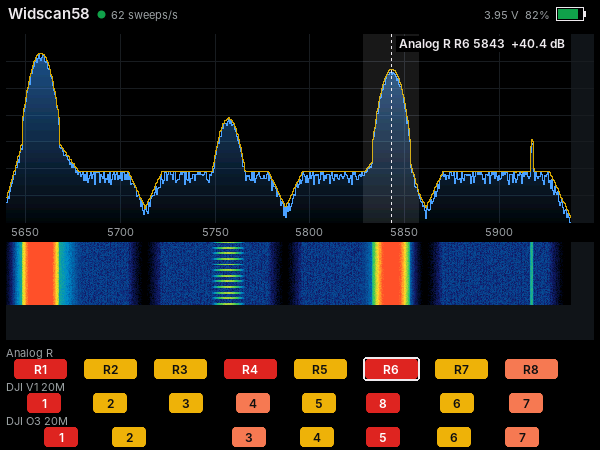
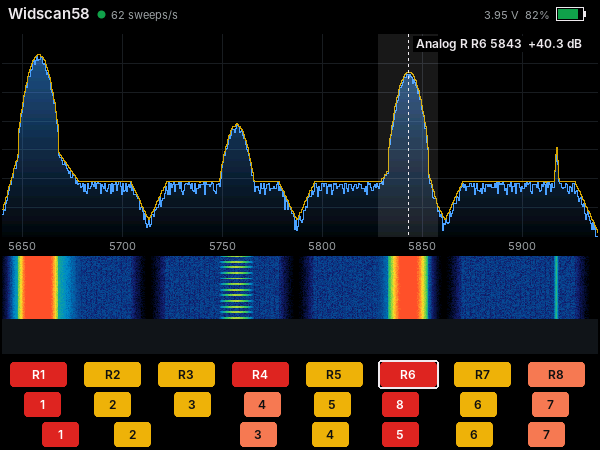
handheld: rows menu on a long press, no row names, axis fits the scan
- Channel rows lose their names; a long press on them opens a menu to
  pick the 3 platforms (in the list's order; Done once 3 are picked).
  Tapping a row no longer cycles its platform.
- The frequency axis spans what the scanner's segments cover (within
  5640-5950 MHz), so the right edge isn't an empty unscanned strip; the
  plot uses the full width (LX 2, PW 596).
- Rows are 30 px; the 14 px saved go to the spectrum.
- The charging screen dims after 5 s instead of a minute.

Claude-Session: https://claude.ai/code/session_01RN8zrzY3kaDCnW1Za2v2Wa

Changed region(s): [[0.0, 0.0622, 0.99, 0.7156], [0.0, 0.7778, 0.99, 0.9956], [0.99, 0.4978, 1.0, 0.5289]]

diff --git a/handheld/src/ui.cpp b/handheld/src/ui.cpp
@@ -6,21 +6,21 @@
 #include "platforms.h"
 
 // Band shown: E4 to E8, the analog chart's edges.
-static const float F0 = 5640, F1 = 5950;
+static const float BAND0 = 5640, BAND1 = 5950;  // the axis at most; it shrinks to what the scanner covers
 
 // Layout (see the mockup in README.md).
 static const int STATUS_H = 28;
-static const int SPEC_T = 34, SPEC_B = 222;  // spectrum plot rows
-static const int AXIS_Y = 236;              // MHz labels' baseline
-static const int WF_T = 242;                // waterfall top (Ui::WF_ROWS tall)
-static const int ROWS_T = 346, ROW_H = 34;  // channel rows: a caption, then the boxes
-static const int CAP_H = 13, BOX_H = 20;
+static const int SPEC_T = 34, SPEC_B = 236;  // spectrum plot rows
+static const int AXIS_Y = 250;              // MHz labels' baseline
+static const int WF_T = 256;                // waterfall top (Ui::WF_ROWS tall)
+static const int ROWS_T = 360, ROW_H = 30;  // channel rows
+static const int BOX_H = 25;
 
 RegionRows regionRows(Region r) {
     switch (r) {
         case R_STATUS: return {0, STATUS_H};
-        case R_PLOT: return {STATUS_H, 344};
-        default: return {344, Ui::H};
+        case R_PLOT: return {STATUS_H, 358};
+        default: return {358, Ui::H};
     }
 }
 
@@ -45,7 +45,7 @@ static uint16_t levelColor(float db) {
     return CRITICAL;
 }
 
-float Ui::fx(float mhz) const { return LX + (mhz - F0) / (F1 - F0) * PW; }
+float Ui::fx(float mhz) const { return LX + (mhz - f0) / (f1 - f0) * PW; }
 
 static float percentile10(const float *v, int n) {
     static float tmp[Ui::PW];
@@ -66,7 +66,24 @@ static float percentile10(const float *v, int n) {
 }
 
 void Ui::update(const Scanner &sc, uint32_t nowMs) {
-    sc.composite(F0, F1, PW, live, maxH, avgLin, nowMs);
+    // The axis spans what the scanner's segments cover (within the band), so
+    // no columns are left empty at the edges.
+    float lo = 1e9f, hi = 0;
+    for (const auto &g : sc.seg) {
+        if (!g.used || (int32_t)(nowMs - g.updatedMs) > (int32_t)Scanner::STALE_MS) continue;
+        float start = g.loKhz / 1000.0f + g.startOffHz / 1e6f, bin = g.binHz / 1e6f;
+        if (start - bin / 2 < lo) lo = start - bin / 2;
+        if (start + (g.n - 0.5f) * bin > hi) hi = start + (g.n - 0.5f) * bin;
+    }
+    if (hi > lo) {
+        float a = floorf(lo < BAND0 ? BAND0 : lo), b = ceilf(hi > BAND1 ? BAND1 : hi);
+        if (b - a > 100 && (fabsf(a - f0) >= 2 || fabsf(b - f1) >= 2)) {
+            f0 = a;
+            f1 = b;
+            memset(wf, WF_EMPTY, sizeof(wf));  // its columns were on the old axis
+        }
+    }
+    sc.composite(f0, f1, PW, live, maxH, avgLin, nowMs);
     rotationHz = sc.rotationHz;
     scanning = sc.running;
     if (sc.drops != lastDrops) {
@@ -95,12 +112,12 @@ void Ui::update(const Scanner &sc, uint32_t nowMs) {
     }
 
     // Channel levels: mean power over the channel from the average trace.
-    const float colMhz = (F1 - F0) / PW;
+    const float colMhz = (f1 - f0) / PW;
     for (int r = 0; r < Settings::ROWS; r++) {
         const Platform &p = PLATFORMS[set.rows[r]];
         for (int j = 0; j < p.count; j++) {
             float lo = p.ch[j].mhz - p.bw / 2.0f, hi = p.ch[j].mhz + p.bw / 2.0f;
-            int a = (int)ceilf((lo - F0) / colMhz - 0.5f), b = (int)floorf((hi - F0) / colMhz - 0.5f);
+            int a = (int)ceilf((lo - f0) / colMhz - 0.5f), b = (int)floorf((hi - f0) / colMhz - 0.5f);
             if (a < 0) a = 0;
             if (b > PW - 1) b = PW - 1;
             float sum = 0;
@@ -244,9 +261,10 @@ void Ui::drawPlot(uint32_t nowMs) {
     }
     for (int f = 5650; f <= 5950; f += 50) {
         int x = (int)lroundf(fx((float)f));
-        if (x < LX + PW) c.vline(x, SPEC_T, SPEC_B - SPEC_T + 1, GRID);
+        if (x < LX || x >= LX + PW) continue;
+        c.vline(x, SPEC_T, SPEC_B - SPEC_T + 1, GRID);
         snprintf(s, sizeof(s), "%d", f);
-        if (x < LX + PW - 10) c.text(font_small, x, AXIS_Y, s, INK2, CENTER);
+        if (x >= LX + 16 && x < LX + PW - 16) c.text(font_small, x, AXIS_Y, s, INK2, CENTER);
     }
 
     // Live trace: a fading fill under a line, then the max hold line.
@@ -275,7 +293,7 @@ void Ui::drawPlot(uint32_t nowMs) {
         const Platform &p = PLATFORMS[set.rows[selRow]];
         const Channel &ch = p.ch[selCh];
         int x = (int)lroundf(fx(ch.mhz));
-        int half = (int)lroundf(p.bw / 2.0f / (F1 - F0) * PW);
+        int half = (int)lroundf(p.bw / 2.0f / (f1 - f0) * PW);
         c.blendFill(x - half, SPEC_T, 2 * half, SPEC_B - SPEC_T + 1, INK, 28);
         c.dashedV(x, SPEC_T, SPEC_B, INK, 3, 3);
         float db = lev[selRow][selCh].db;
@@ -315,7 +333,7 @@ void Ui::drawPlot(uint32_t nowMs) {
 
 void Ui::boxGeometry(int row, int ch, int *x, int *w) const {
     const Platform &p = PLATFORMS[set.rows[row]];
-    float pxPerMhz = (float)PW / (F1 - F0);
+    float pxPerMhz = (float)PW / (f1 - f0);
     // As wide as the channel, but no wider than the gap to its neighbours.
     float width = p.bw * pxPerMhz;
     for (int j = 0; j < p.count; j++)
@@ -335,8 +353,7 @@ void Ui::drawRows() {
     for (int r = 0; r < Settings::ROWS; r++) {
         const Platform &p = PLATFORMS[set.rows[r]];
         int y = ROWS_T + r * ROW_H;
-        c.text(font_small, LX, y + CAP_H - 2, p.label, INK2);
-        int by = y + CAP_H;
+        int by = y + (ROW_H - BOX_H) / 2;
         for (int j = 0; j < p.count; j++) {
             int x, w;
             boxGeometry(r, j, &x, &w);
@@ -369,21 +386,6 @@ int Ui::tap(int x, int y, uint32_t nowMs, bool *settingsChanged, bool *resetHold
     }
     int r = (y - ROWS_T) / ROW_H;
     if (y < ROWS_T || r >= Settings::ROWS) return 0;
-    if (y - ROWS_T - r * ROW_H < CAP_H + 1) {
-        // The caption: the next platform not already on screen.
-        int p = set.rows[r];
-        for (int k = 0; k < PLATFORM_COUNT; k++) {
-            p = (p + 1) % PLATFORM_COUNT;
-            bool shown = false;
-            for (int j = 0; j < Settings::ROWS; j++)
-                if (j != r && set.rows[j] == p) shown = true;
-            if (!shown) break;
-        }
-        set.rows[r] = (uint8_t)p;
-        if (selRow == r) selRow = selCh = -1;
-        *settingsChanged = true;
-        return R_ROWS | R_STATUS | R_PLOT;
-    }
     // The nearest box in the row.
     const Platform &p = PLATFORMS[set.rows[r]];
     int best = -1, bestD = 1 << 30;
@@ -450,4 +452,81 @@ void Ui::drawCharging(uint32_t nowMs, int dx, int dy) {
         c.text(font_label, W / 2 + dx, y + bh + 110, s, INK2, CENTER);
     }
     c.text(font_small, W / 2 + dx, y + bh + 160, "Press power to scan", INK2, CENTER);
+}
+
+// ---- The rows menu (a long press on the channel rows) ----
+
+static const int MENU_TOP = 64, MENU_COLS = 2, MENU_GAP = 8, MENU_BTN_Y = 396, MENU_BTN_H = 44;
+
+void Ui::openMenu() {
+    menuMask = 0;
+    for (int r = 0; r < Settings::ROWS; r++) menuMask |= 1u << set.rows[r];
+    menuOpen = true;
+}
+
+static int popcount(uint32_t m) {
+    int n = 0;
+    for (; m; m &= m - 1) n++;
+    return n;
+}
+
+static void menuCell(int k, int *x, int *y, int *w, int *h) {
+    const int rows = (PLATFORM_COUNT + MENU_COLS - 1) / MENU_COLS;
+    *w = (Ui::W - 2 * 12 - (MENU_COLS - 1) * MENU_GAP) / MENU_COLS;
+    *h = (MENU_BTN_Y - 16 - MENU_TOP - (rows - 1) * MENU_GAP) / rows;
+    *x = 12 + (k % MENU_COLS) * (*w + MENU_GAP);
+    *y = MENU_TOP + (k / MENU_COLS) * (*h + MENU_GAP);
+}
+
+void Ui::drawMenu() {
+    c.fill(0, 0, W, H, BG);
+    int n = popcount(menuMask);
+    c.text(font_title, 12, 30, "Channel rows", INK);
+    char s[48];
+    if (n == Settings::ROWS) snprintf(s, sizeof(s), "%d selected", n);
+    else snprintf(s, sizeof(s), "Pick %d (%d selected)", Settings::ROWS, n);
+    c.text(font_small, 12, 50, s, INK2);
+    for (int k = 0; k < PLATFORM_COUNT; k++) {
+        int x, y, w, h;
+        menuCell(k, &x, &y, &w, &h);
+        bool on = menuMask & (1u << k);
+        c.roundRect(x, y, w, h, 6, on ? GOOD : rgb(32, 35, 40));
+        c.text(font_label, x + w / 2, y + h / 2 + 5, PLATFORMS[k].label, on ? rgb(255, 255, 255) : INK2, CENTER);
+    }
+    const int bw = (W - 2 * 12 - MENU_GAP) / 2;
+    c.roundRect(12, MENU_BTN_Y, bw, MENU_BTN_H, 6, rgb(32, 35, 40));
+    c.text(font_label, 12 + bw / 2, MENU_BTN_Y + MENU_BTN_H / 2 + 5, "Cancel", INK, CENTER);
+    bool ok = n == Settings::ROWS;
+    c.roundRect(12 + bw + MENU_GAP, MENU_BTN_Y, bw, MENU_BTN_H, 6, ok ? rgb(56, 152, 255) : rgb(32, 35, 40));
+    c.text(font_label, 12 + bw + MENU_GAP + bw / 2, MENU_BTN_Y + MENU_BTN_H / 2 + 5, "Done", ok ? rgb(255, 255, 255) : MUTED, CENTER);
+}
+
+bool Ui::menuTap(int x, int y, bool *settingsChanged) {
+    *settingsChanged = false;
+    if (y >= MENU_BTN_Y - 4) {
+        const int bw = (W - 2 * 12 - MENU_GAP) / 2;
+        if (x < 12 + bw + MENU_GAP / 2) {
+            menuOpen = false;  // Cancel
+        } else if (popcount(menuMask) == Settings::ROWS) {
+            // Rows in the platforms' order.
+            int r = 0;
+            for (int k = 0; k < PLATFORM_COUNT && r < Settings::ROWS; k++)
+                if (menuMask & (1u << k)) set.rows[r++] = (uint8_t)k;
+            selRow = selCh = -1;
+            menuOpen = false;
+            *settingsChanged = true;
+        }
+        return true;
+    }
+    for (int k = 0; k < PLATFORM_COUNT; k++) {
+        int cx, cy, w, h;
+        menuCell(k, &cx, &cy, &w, &h);
+        if (x >= cx - MENU_GAP / 2 && x < cx + w + MENU_GAP / 2 && y >= cy - MENU_GAP / 2 && y < cy + h + MENU_GAP / 2) {
+            uint32_t bit = 1u << k;
+            if (menuMask & bit) menuMask &= ~bit;
+            else if (popcount(menuMask) < Settings::ROWS) menuMask |= bit;
+            return true;
+        }
+    }
+    return false;
 }

diff --git a/handheld/src/main.cpp b/handheld/src/main.cpp
@@ -199,7 +199,7 @@ static void chargeMode() {
                 displayBrightness(BRIGHTNESS[settings.brightness]);
             }
         }
-        if (!dim && now - lastTouch > 60000) {  // dim after a minute; a touch brings it back
+        if (!dim && now - lastTouch > 5000) {  // dim after 5 s; a touch brings it back for another 5
             dim = true;
             displayBrightness(BRIGHTNESS[BRIGHTNESS_LEVELS - 1]);
         }
@@ -281,7 +281,8 @@ void setup() {
 void loop() {
     static uint32_t lastDraw, lastStatus, lastRows, lastTouchPoll, lastBattery, lastActivity, lastLog;
     static uint32_t claimAt = 1500, claims, lowSince, keyDownAt;
-    static bool touching, dimmed, keyArmed, screenOff;
+    static bool touching, dimmed, keyArmed, screenOff, longFired, menuDirty;
+    static uint32_t touchStart;
     static int touchX, touchY, forced = R_STATUS | R_PLOT | R_ROWS;
     static unsigned frames;
     uint32_t now = millis();
@@ -316,7 +317,8 @@ void loop() {
         }
     }
 
-    // Touch: act on release, so a press can wake a dimmed screen without doing anything else.
+    // Touch: act on release, so a press can wake a dimmed screen without
+    // doing anything else. A long press on the channel rows opens their menu.
     if (now - lastTouchPoll >= 20) {
         lastTouchPoll = now;
         int x, y;
@@ -325,10 +327,27 @@ void loop() {
             touchX = x;
             touchY = y;
         }
+        if (down && !touching) {
+            touchStart = now;
+            longFired = false;
+        }
+        if (down && touching && !longFired && !ui->menuOpen && !screenOff && !dimmed && now - touchStart > 600 &&
+            touchY >= regionRows(R_ROWS).y0) {
+            longFired = true;
+            ui->openMenu();
+            menuDirty = true;
+        }
         if (touching && !down && !screenOff) {
-            if (dimmed) {
+            if (longFired) {
+                // the long press itself: nothing more on release
+            } else if (dimmed) {
                 dimmed = false;
                 displayBrightness(BRIGHTNESS[settings.brightness]);
+            } else if (ui->menuOpen) {
+                bool changed;
+                menuDirty |= ui->menuTap(touchX, touchY, &changed);
+                if (changed) saveSettings();
+                if (!ui->menuOpen) forced = R_STATUS | R_PLOT | R_ROWS;
             } else {
                 bool changed, reset, retry;
                 forced |= ui->tap(touchX, touchY, now, &changed, &reset, &retry);
@@ -406,6 +425,15 @@ void loop() {
         ui->link = claims > 5 ? LINK_LOST : LINK_WAITING;
     } else {
         ui->link = LINK_LOST;
+    }
+
+    if (ui->menuOpen) {  // the rows menu: the whole screen, redrawn on change
+        if (menuDirty) {
+            ui->drawMenu();
+            displayFlush(fb, 0, Ui::H);
+            menuDirty = false;
+        }
+        return;
     }
 
     int mask = R_PLOT | forced;

diff --git a/handheld/src/ui.h b/handheld/src/ui.h
@@ -29,7 +29,7 @@ RegionRows regionRows(Region r);
 class Ui {
 public:
     static const int W = 600, H = 450;
-    static const int LX = 6, PW = 588;  // plot left and width (the channel rows share the axis)
+    static const int LX = 2, PW = 596;  // plot left and width (the channel rows share the axis)
     Ui(Canvas &c, Settings &s) : c(c), set(s) { memset(wf, WF_EMPTY, sizeof(wf)); }
 
     /** Takes what it needs from the scanner (call with it locked). */
@@ -48,6 +48,14 @@ public:
     /** The whole screen as the charging screen (scanner idle), moved by
      *  dx, dy. Uses the battery fields below. */
     void drawCharging(uint32_t nowMs, int dx, int dy);
+
+    /** The menu to pick the channel rows (on a long press over them): the
+     *  whole screen while menuOpen. menuTap returns true when it needs a
+     *  redraw; settings change when Done is tapped with 3 picked. */
+    bool menuOpen = false;
+    void openMenu();
+    void drawMenu();
+    bool menuTap(int x, int y, bool *settingsChanged);
 
     // Fed by the caller.
     LinkState link = LINK_WAITING;
@@ -78,9 +86,11 @@ private:
     };
     Level lev[Settings::ROWS][10];
     int selRow = -1, selCh = -1;
+    uint32_t menuMask = 0;  // platforms picked in the menu
     uint32_t toastUntil = 0;
     const char *toast = "";
 
+    float f0 = 5640, f1 = 5950;  // the frequency axis, MHz
     float fx(float mhz) const;
     void drawStatus(uint32_t nowMs);
     void drawRows();

diff --git a/handheld/test/host.cpp b/handheld/test/host.cpp
@@ -149,7 +149,7 @@ int main(int argc, char **argv) {
     ui.batteryPct = 82;
     ui.batteryV = 3.95f;
     bool a, b, cc;
-    ui.tap(391, 346 + 13 + 10, 3990, &a, &b, &cc);  // select R6 on the first row
+    ui.tap(408, 360 + 15, 3990, &a, &b, &cc);  // select R6 on the first row
     ui.update(sc, 4000);
     ui.draw(R_STATUS | R_PLOT | R_ROWS, 4000);
 
@@ -188,5 +188,22 @@ int main(int argc, char **argv) {
         ui.drawCharging(1200, 0, 0);
         save(argv[2]);
         printf("rendered charging screen\n");
+    }
+    // The rows menu: pick Analog F instead of DJI V1 20M.
+    {
+        bool changed;
+        ui.openMenu();
+        assert(ui.menuOpen);
+        ui.drawMenu();
+        if (argc > 3) save(argv[3]);
+        int k1 = 1, k5 = 5;  // Analog F, DJI V1 20M: cells (col k % 2, row k / 2)
+        auto tapCell = [&](int k) { ui.menuTap(12 + (k % 2) * 290 + 100, 64 + (k / 2) * 46 + 15, &changed); };
+        tapCell(k1);  // a 4th: refused
+        tapCell(k5);  // off
+        tapCell(k1);  // on
+        ui.menuTap(450, 410, &changed);  // Done
+        assert(changed && !ui.menuOpen);
+        assert(set.rows[0] == 0 && set.rows[1] == 1 && set.rows[2] == 8);
+        printf("menu ok\n");
     }
 }

diff --git a/handheld/README.md b/handheld/README.md
@@ -18,22 +18,23 @@ the C5's serial port, the same protocol the web UI uses over USB.
   can't give a percentage).
 - **Charging screen:** plugging USB into a switched-off handheld starts it on a
   full-screen charging display with the scanner idle (its LED dark). Press the
-  power key to scan; unplugging USB turns it off again.
-- **Spectrum:** the whole band, 5640–5950 MHz, across the full width (no scale
-  labels: the channel rows below share its frequency axis), stitched from the scanner's LO
+  power key to scan; unplugging USB turns it off again. It dims after 5 s (a
+  touch brings it back) and drifts a few pixels a minute against OLED wear.
+- **Spectrum:** the band the scanner covers (within 5640–5950 MHz), across the
+  full width (no scale labels: the channel rows below share its frequency axis), stitched from the scanner's LO
   segments (each point from the nearest LO, as the web UI's panorama). Blue is
   live, amber the max hold, which fades back to the live trace over about a minute. Dark columns are parts of the band no LO reaches.
 - **Waterfall:** the last ~2 seconds, to tell a steady VTX from on-and-off Wi-Fi.
 - **Channel rows:** three platforms (by default Analog R, DJI V1 20 MHz and DJI O3 20 MHz; Oscar Liang's chart, as the Android app's
   Channels tab), each channel coloured by its mean power above the band's noise
   floor: green < 4 dB, yellow 4–9, orange 9–16, red ≥ 16, grey not scanned.
-  Each row's platform name sits just above its boxes.
+  No row names: tap a box to see its platform and level over the spectrum.
 
 ## Controls
 
 | Do | To |
 |---|---|
-| Tap a row's name (just above its boxes) | Change that row to the next platform (kept across restarts) |
+| Long press the channel rows | Pick the 3 platforms shown (kept across restarts) |
 | Tap a channel | Mark it on the spectrum with its level; tap again to clear |
 | Tap the spectrum | Reset the max hold and the average |
 | Tap the status bar | Change the brightness (4 steps, kept) |
